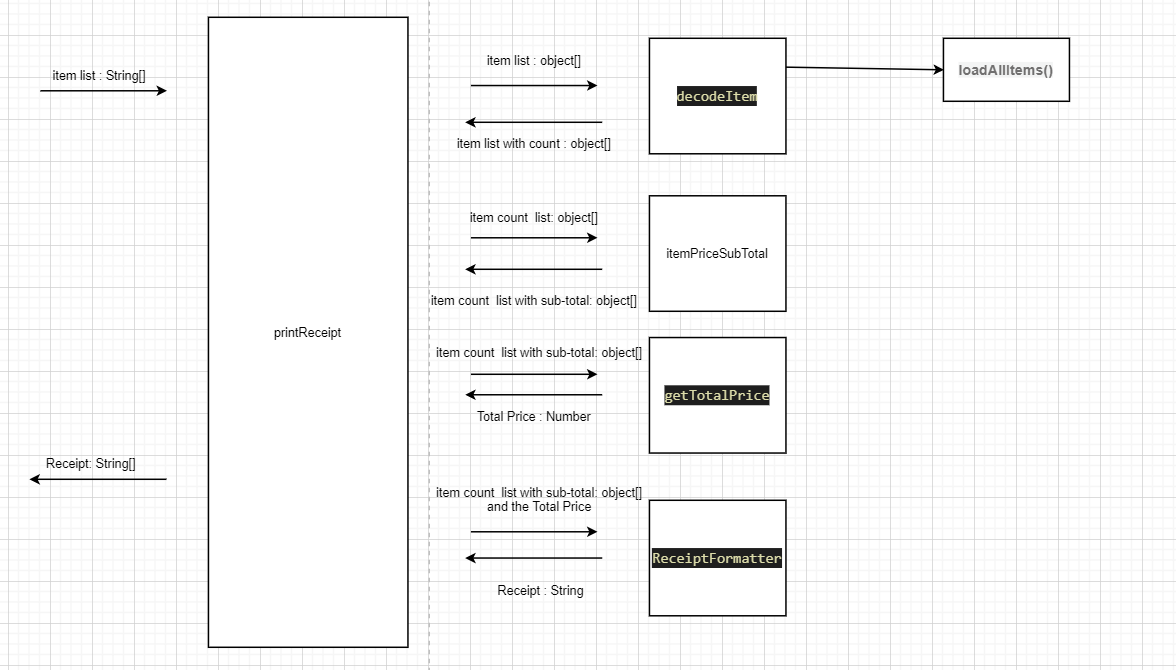
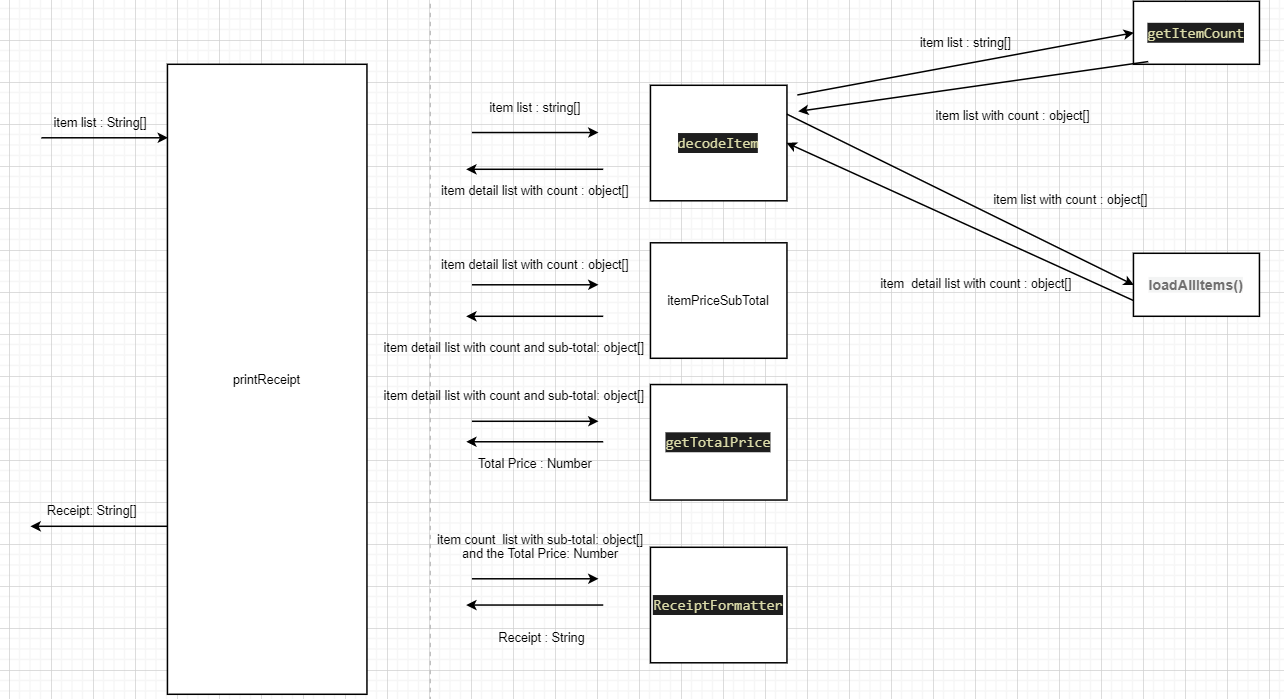
Code Formatting,Consistent Naming,Divide print into different parts

diff --git a/main/main.js b/main/main.js
@@ -2,22 +2,24 @@
 
 function printReceipt(inputs) {
 
-  let itemDetailList = decodeItem(inputs)
+  let itemDetailList = decodeItems(inputs)
   let subTotalList = getSubTotalList(itemDetailList)
   let totalPrice = getTotalPrice(subTotalList)
 
   console.log(ReceiptFormatter(subTotalList, totalPrice))
 }
 
-function decodeItem(inputs) {
+function decodeItems(inputs) {
   let itemCountList = getItemCount(inputs)
   let itemDetailList = getItemDetailList(itemCountList)
   return itemDetailList
 }
 
 function ReceiptFormatter(subTotalList, totalPrice) {
+  let head = ""
   let content = ""
-  content += "***<store earning no money>Receipt ***\n"
+  let summary = ""
+  head += "***<store earning no money>Receipt ***\n"
   for (let item in subTotalList) {
     let quan = subTotalList[item]['count']
     let name = subTotalList[item]['name']
@@ -33,19 +35,17 @@ function ReceiptFormatter(subTotalList, totalPrice) {
     content += "Name：" + name + "，Quantity：" + quan + " " + unit + "，Unit：" + price + " (yuan)，Subtotal：" + subtotal + " (yuan)\n"
 
   }
-  content += "----------------------\n"
-  content += "总计：" + totalPrice + " (yuan)\n"
-  content += "**********************"
+  summary += "----------------------\n"
+  summary += "总计：" + totalPrice + " (yuan)\n"
+  summary += "**********************"
 
-
-  return content
+  return head + content + summary
 }
 
 function getTotalPrice(subTotalList) {
   let sum = 0
   subTotalList.forEach(element => {
     sum += Number(element['subtotal'])
-
   })
   sum = sum.toFixed(2)
   return sum
@@ -53,7 +53,7 @@ function getTotalPrice(subTotalList) {
 
 function getSubTotalList(itemDetailList) {
   for (let item in itemDetailList) {
-
+    // assign to the variable
     itemDetailList[item]['subtotal'] = itemDetailList[item]['count'] * itemDetailList[item]['price']
     itemDetailList[item]['subtotal'] = Number(itemDetailList[item]['subtotal']).toFixed(2)
   }
@@ -66,29 +66,22 @@ function getItemCount(inputs) {
     itemCountList[inputs[key]] = (itemCountList[inputs[key]] || 0) + 1
   }
 
-  for (let key in itemCountList) {
-    // console.log( key + "  " + itemCountList[key] )
-  }
+
   return itemCountList
 }
 
 function getItemDetailList(itemCountList) {
 
-  let DbDetailList = loadAllItems()
+  let dbDetailList = loadAllItems()
   let itemDetailList = []
+
   for (let key in itemCountList) {
-    // if(DbDetailList)
-    for (let item in DbDetailList) {
-      if (key == DbDetailList[item]['barcode']) {
-        DbDetailList[item]['count'] = itemCountList[key]
-        itemDetailList.push(DbDetailList[item])
-
+    for (let item in dbDetailList) {
+      if (key == dbDetailList[item]['barcode']) {
+        dbDetailList[item]['count'] = itemCountList[key]
+        itemDetailList.push(dbDetailList[item])
       }
-
     }
-
   }
-
-
   return itemDetailList
 }
